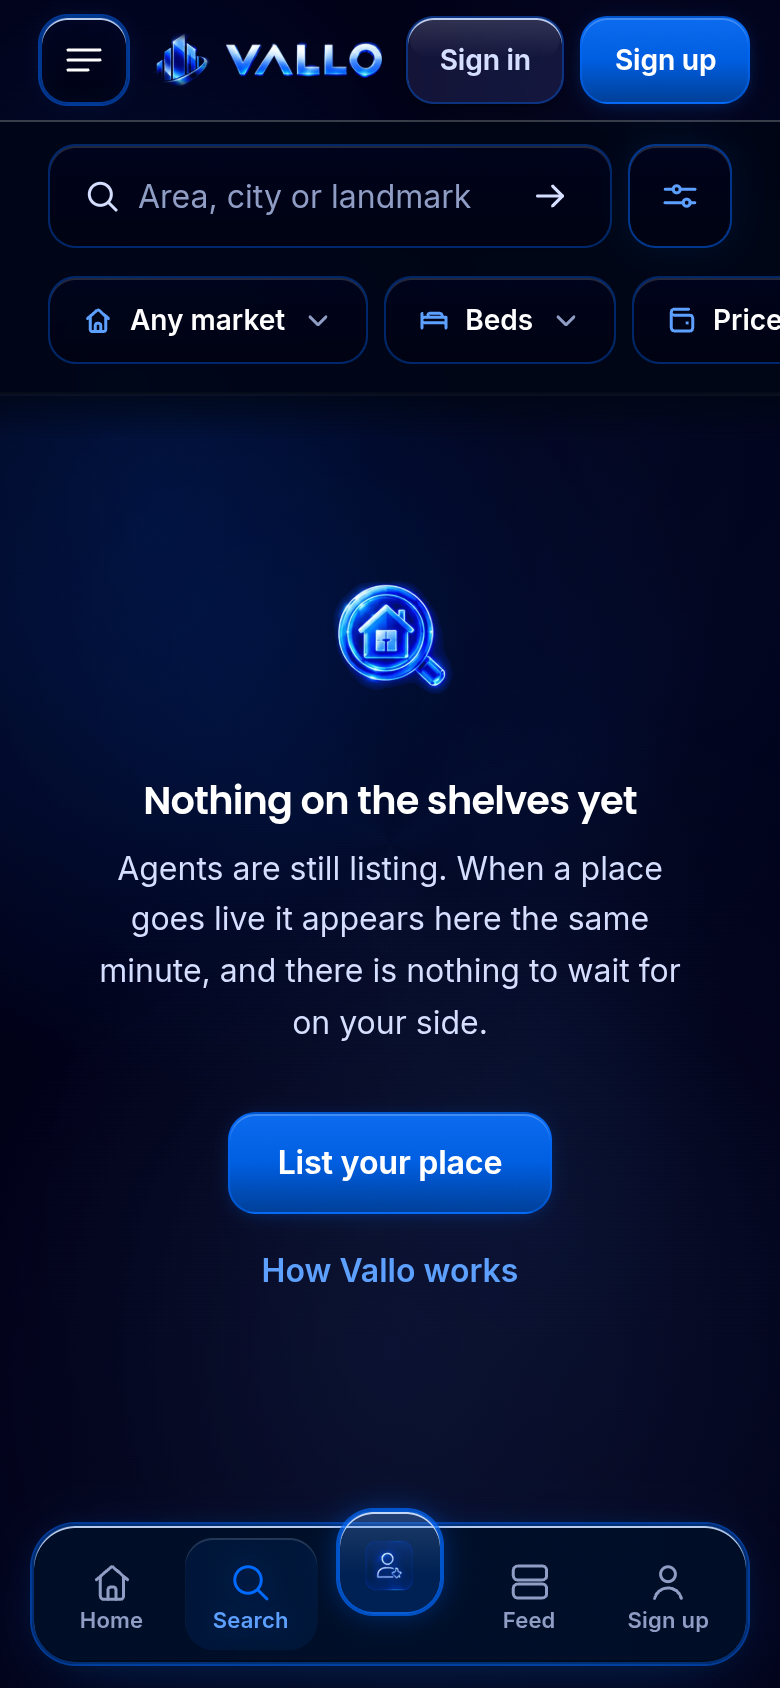
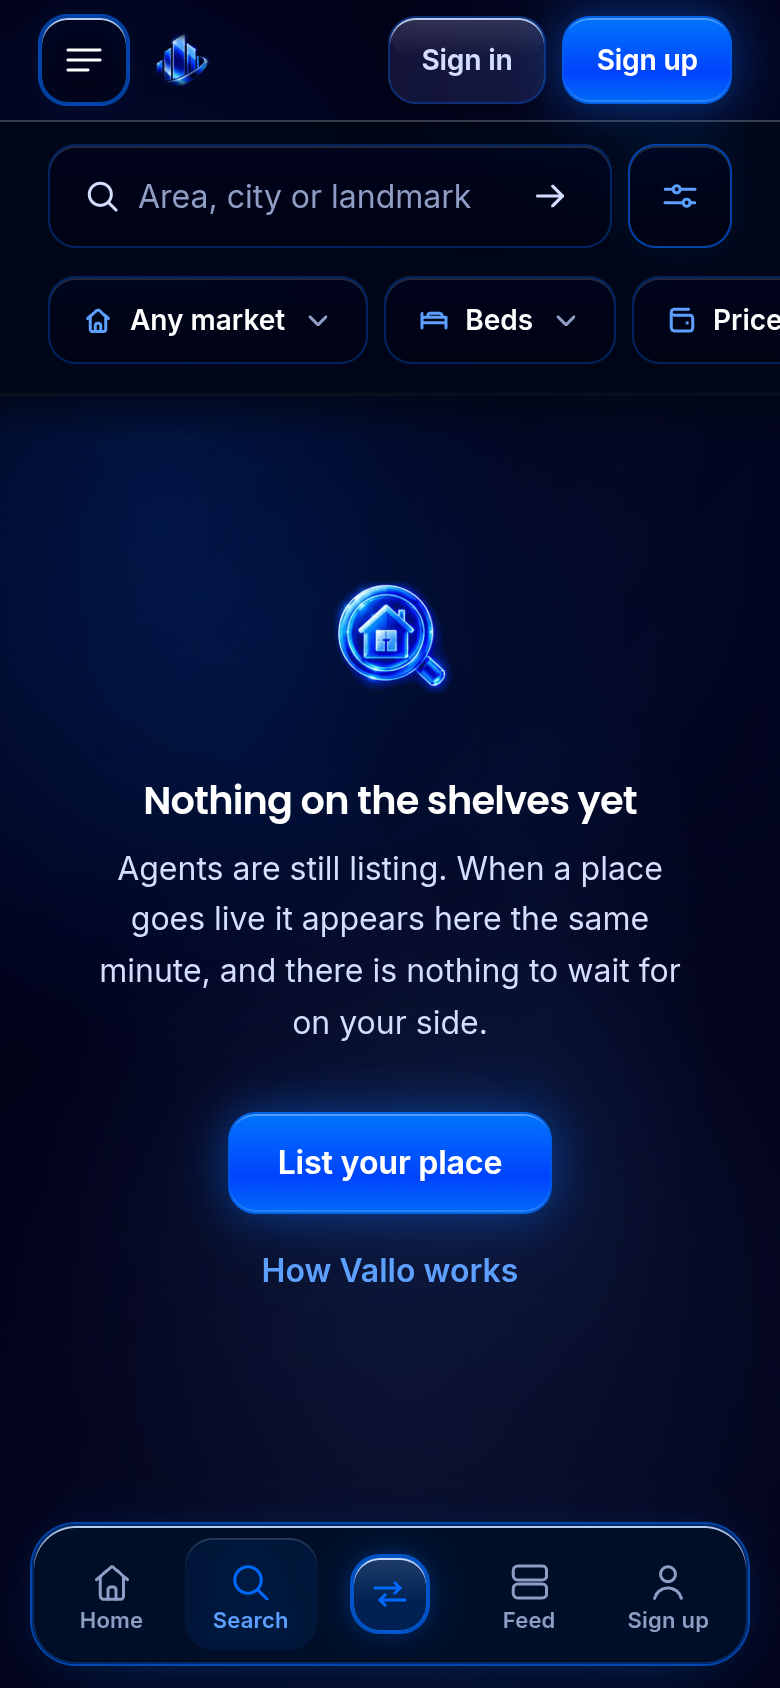
the switch lives in one place, and the two proofs that said otherwise are retaken
The founder confirmed the ruling: one place, the dock. The code was right and
HANDOFF 09 section 6B was out of date. That section now carries the current
ruling at the top with the original beneath it, struck through and marked
superseded rather than deleted, so nobody re-derives the old answer in a month
and fixes the code back to it. The "raised" half is superseded there too.

TWO PROOFS WERE OLDER THAN THE CODE THEY CLAIMED TO PROVE, and neither was
dishonest when taken. Both outlived their subject:

  - dock-390-dark.png and ledger row 261 measured "the object rises 7px above
    the bar". chrome.css sets --nf-dock-lift: 0rem.
  - drawer-390-dark.png and ledger row 263 proved "the side drawer's Switch
    profile row". That row was removed, not moved.

Retaken by scripts/design/proof-dock.mjs on a production next start at 99690eb.
Four guards, each paid for by a real failure on this build: the HTTP status;
where the browser landed, because verify-shots.mjs once wrote five PNGs of the
sign-in screen under five other route names; the data-nf-not-found marker,
because a layout notFound() answers 200 with the not-found body; and instant
scroll, because a smooth scroll is a no-op in headless Chromium. It refuses to
write a file whose measurement disagrees with the ruling, because a script that
will photograph anything put in front of it is how these two rows happened.

THE GUARD CAUGHT MY OWN INSTRUMENT ON THE FIRST RUN. It measured the switch slot
[…]

Changed region(s): [[0.2462, 0.6469, 0.7385, 0.7393], [0.2769, 0.0, 0.9846, 0.0924], [0.4308, 0.8934, 0.5846, 0.9858]]

diff --git a/docs/BUILD_07_LEDGER.md b/docs/BUILD_07_LEDGER.md
@@ -258,9 +258,9 @@ the worker. No row, no close, and the lead does not commit it.
 | `/privacy` | none, inherits the register | `a2/privacy-390-{dark,light}.png` | 0 breaches at 390 and 1536 | A2 |
 | `/terms` | none, inherits the register | `a2/terms-390-{dark,light}.png` | 0 breaches at 390 and 1536 | A2 |
 | The offline card, `apps/web/native-shell/index.html` | none, inherits the register; drawn to it for the first time | `a2/native-shell-no-connection-390-{dark,light}.png`, `a2/native-shell-no-server-390-{dark,light}.png` | measured in the browser: plate 0.27, button 0.28, card 0.07, note 0.12; the only circle is the explanatory glyph | A2 |
-| The dock with the raised centre switch | `GOVERNING-01` screen one | `b1/dock-390-dark.png`, RETAKEN by A2b on `next start` at `6c621e3`, on `/search` because `/home` is behind the gate | dock object 18 on 52 = 0.346, measured; bar 22 on 70 = 0.314; the object rises 7px above the bar; five slots, Home, Search, Switch profile, Feed, Sign up | B1, proof by A2b |
+| The dock with the centre switch **in line** | `GOVERNING-01` screen one | `b1/dock-390-{dark,light}.png`, **RETAKEN 22 Sep at `99690eb`** by `scripts/design/proof-dock.mjs` on `next start`, on `/search` because `/home` is behind the gate | **the switch sits 0px above its siblings**, measured against the median top of the other four rather than against the bar; all five slots 65.59px wide; bar 70px; overflowX 0; five slots, Home, Search, the switch, Feed, Sign up. **SUPERSEDES the row that measured a 7px rise**: the founder reversed that and `--nf-dock-lift` is now `0rem` | lead |
 | The Switch profile sheet | `GOVERNING-01` screen two | `b1/sheet-390-dark.png`, RETAKEN by A2b at `6c621e3` | row mark 14 on 44 = 0.318, measured. THE STANDING LABEL IS NOT IN THIS PROOF: it only draws on a workspace row, a visitor with no session has none, so B1's 6 on 25 = 0.244 is UNVERIFIED and needs a session | B1, proof by A2b |
-| The side drawer's Switch profile row | `GOVERNING-01` screen three | `b1/drawer-390-dark.png`, RETAKEN by A2b at `6c621e3` | row 14 on 56 = 0.25, measured; and the sheet it opens is the same sheet the dock opens, asserted in the run | B1, proof by A2b |
+| The side drawer, with **no** Switch profile row | `GOVERNING-01` screen three, **departed from on the founder's ruling** | `b1/drawer-390-dark.png`, **RETAKEN 22 Sep at `99690eb`** by the same script | **asserted, not eyeballed: the drawer's text matches neither `/switch profile/` nor `/switch role/`, and neither `/light mode/` nor `/dark mode/`.** The row was REMOVED rather than moved, and the theme control lost its container and its words, both on the founder's instruction. The shot shows Home, Search, Feed, the flip-coin card, a bare theme glyph, and the company row. **SUPERSEDES the row that proved a Switch profile row**: that surface no longer ships | lead |
 | `/wallet`, the balance card and the action band | `6AF37222` | `next start` on `.next-b2`, build exit 0: figure 40.17px (was 33.5, render ~40), action tile 71x61 (was 71x83, render 77x60), tx glyph 36px (was 44, render ~36) | 0 breaches, 390 and 1536, dark and light | B2 |
 | `/wallet/send`, `/wallet/receive`, `/wallet/transactions`, `/settings/payments`, the page top | `95840448`, `77A54EA3`, `7F96BE6C` | same server; all four on `layout="stacked"`, and the second header row is gone from `/wallet` | 0 breaches, 390 and 1536, dark and light | B2 |
 | `/wallet/transactions`, the statement | `6AF37222` | same server; one card for the whole list with the days as headings inside it, against one card per calendar day | 0 breaches, 390 and 1536, dark and light | B2 |
@@ -5741,3 +5741,83 @@ severity, and an audit log. That data is real and was repaired today:
 
 **Requests for a new view, function or policy come back to this session**, per
 the scope file. Ask rather than adding a migration.
+
+## 50. TWO PROOFS THAT DISAGREED WITH THE SHIPPED CODE, RETAKEN
+
+The founder's ruling, in his words: **a proof that disagrees with the shipped
+code is the same class of problem as a green light that cannot see what it is
+reporting on.** That makes five of the same shape in one day, and these two are
+the fourth and fifth.
+
+### What was stale, and why
+
+| Proof | Claimed | Shipped |
+|---|---|---|
+| `b1/dock-390-dark.png` and ledger row 261 | "the object rises **7px** above the bar" | `chrome.css` sets `--nf-dock-lift: 0rem`. The founder used the dock on a real phone and ruled the switch back **in line** with the other four |
+| `b1/drawer-390-dark.png` and ledger row 263 | "the side drawer's **Switch profile** row", proved against `GOVERNING-01` screen three | The row was **removed**, not moved. The switch lives in one place |
+
+Neither proof was dishonest when it was taken. Both were taken before the
+ruling that changed the thing they photographed, and neither was retaken after
+it. That is how a proof rots: not by being faked, but by outliving its subject.
+
+### The founder has confirmed the ruling and the brief is what changes
+
+Asked to confirm or reverse the single-entrance deviation, the founder
+confirmed: **the switch lives in one place, the dock, and HANDOFF 09 section 6B
+is out of date rather than the code.** That section now carries the current
+ruling at the top with the original kept beneath it, struck through and marked
+superseded rather than deleted, so nobody re-derives the old answer in a month
+and "fixes" the code back to it.
+
+### `scripts/design/proof-dock.mjs`, and it measures rather than photographs
+
+The script carries four guards, each paid for by a real failure on this build:
+the HTTP status; **where the browser landed**, because `verify-shots.mjs` once
+wrote five PNGs of the sign-in screen under five other route names; the
+`data-nf-not-found` marker, because a layout `notFound()` answers **200** with
+the not-found body; and `behavior: "instant"` on the scroll, because a smooth
+scroll is a no-op in headless Chromium.
+
+**And it refuses to write a file whose measurement disagrees with the ruling.**
+A proof script that will photograph anything put in front of it is how the two
+rows above happened.
+
+### THE GUARD CAUGHT MY OWN INSTRUMENT ON THE FIRST RUN
+
+The first version measured the switch slot against the **bar** and asserted the
+difference was zero. It came back **-7**, and refused to write.
+
+**-7 is not a lift. It is the bar's own top padding**, which every slot sits
+inside, so the number was meaningless and the guard was protecting a
+meaningless number. The founder's ruling is "in line with the **other icons**",
+so the comparison is against the **sibling slots**, not against the container.
+
+Rewritten to compare the switch's top against the median top of the other four:
+
+```
+liftAgainstSiblings: 0      slotTop: 769      siblingMedianTop: 769
+all five slots 65.59px wide      bar 70px      overflowX 0
+```
+
+**Zero, in both themes.** At 1536 the dock is not drawn at all because the
+desktop rail replaces it, which is correct and is recorded rather than thrown.
+
+### The drawer is asserted, not eyeballed
+
+```
+switchRowPresent: false      lightWords: false
+```
+
+The drawer's text matches neither `/switch profile/` nor `/switch role/`, and
+neither `/light mode/` nor `/dark mode/`. Both of the founder's instructions
+are held by an assertion that fails loudly rather than by somebody looking at a
+picture. The shot shows Home, Search, Feed, the flip-coin card, a bare theme
+glyph with no container and no words, and the company row.
+
+### One thing the retake surfaced that is not fixed here
+
+The drawer's flip-coin card draws a **hotel glass object**, not the coin. An
+earlier sweep reported that `flip-coin` appears exactly once in the tree, in
+`BrandIcon.tsx`'s name list, and is drawn nowhere. **The retake corroborates
+it**: the card the object was commissioned for is drawing something else. Named
+here, not fixed, because it belongs to whoever holds the icon set.

diff --git a/docs/HANDOFF_09_THE_DIRECT_PLATFORM.md b/docs/HANDOFF_09_THE_DIRECT_PLATFORM.md
@@ -753,17 +753,55 @@ are, and the gaps are call sites. On the stays side they are not yet joined.
 
 ## 6B. Track O: the switch, its placement, and both sides
 
-The founder has ruled where it lives, and it is two places.
+**THE SWITCH LIVES IN ONE PLACE: THE DOCK. Superseded 22 September, and the
+founder has confirmed it in those words.** The paragraphs below this box are
+the original two-places ruling. They are kept rather than deleted so that
+nobody re-derives the old answer in a month and "fixes" the code back to it.
 
-**In the bottom navigation, as the CENTRE slot**, raised, and visually the most
-important control in the bar, carrying the coin. The five slots today are Home,
-Search, Feed, More, Profile: the centre becomes the switch and the displaced
-item moves. Decide which and write the reason in the ledger.
+> **CURRENT RULING, 22 September 2026.** One place. The centre slot of the
+> dock, and nowhere else. The side drawer's "Switch profile" row is **removed**,
+> not moved, and the drawer's theme control loses its container and its words.
+>
+> **Why.** The founder used the dock on a real phone and ruled that "it lives
+> in the dock now and two entrances to the same sheet in the same product is
+> clutter". `AppShell.tsx:147-157` records that in his words and passes
+> `switchControl` only to `MobileTabBar`; there is no drawer row.
+>
+> **The code is right and this brief was out of date.** A measurement pass on
+> 22 September flagged the single entrance as a deviation from this section and
+> asked the founder to confirm or reverse. He confirmed: the switch stays in
+> one place and the brief is what changes.
+>
+> **Two proofs were older than the ruling and have been retaken**, because a
+> proof that disagrees with the shipped code is the same class of fault as a
+> green light that cannot see what it reports on. See ledger section 50.
+>
+> Everything else in this section still stands: the Stays side gets the same
+> single centre slot opening the same sheet, the chooser offers three doors on
+> that side, and section 3.5 governs all of it.
 
-**And in the side drawer**, as a "Switch profile" row near the foot above the
-theme row, showing the current profile and a chevron.
+---
 
-**Both open the same sheet. One sheet, two entrances.**
+### The original ruling, SUPERSEDED. Kept for the record, not for guidance.
+
+~~The founder has ruled where it lives, and it is two places.~~
+
+~~**In the bottom navigation, as the CENTRE slot**, raised, and visually the
+most important control in the bar, carrying the coin. The five slots today are
+Home, Search, Feed, More, Profile: the centre becomes the switch and the
+displaced item moves. Decide which and write the reason in the ledger.~~
+
+~~**And in the side drawer**, as a "Switch profile" row near the foot above the
+theme row, showing the current profile and a chevron.~~
+
+~~**Both open the same sheet. One sheet, two entrances.**~~
+
+**Note on "raised".** The original ruling also called the centre slot raised,
+and it shipped raised at 7px. **That too was reversed on 22 September**: the
+founder used it on a phone and ruled the switch back in line with the other
+four icons, keeping its container so it still reads as the special one, and
+smaller. `chrome.css` now sets `--nf-dock-lift: 0rem`. The dock proof that
+showed it raised has been retaken.
 
 **The Stays side gets its own**, in the same two places, opening the same
 sheet, whose "Add a workspace" chooser offers three different doors on that
